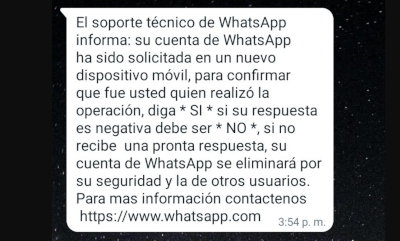
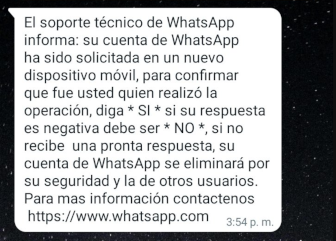
Ajuste nas imagens

diff --git a/sub_sites/ataques/clonagem_whatsapp/clonagem_do_whatsapp.html b/sub_sites/ataques/clonagem_whatsapp/clonagem_do_whatsapp.html
@@ -64,7 +64,7 @@
                 <li>
                     <strong>Golpe do Código de Verificação</strong>
 
-                    <div class="estrutura_da_imagem"><img src="./imagens_clonagem_whatsapp/codigo_de_verificação.jpg" alt="exemplo de mensagem pedindo o codigo" class="corpo"></div>
+                    <div class="estrutura_da_imagem"><img src="./imagens_clonagem_whatsapp/codigo_de_verificação.jpg" alt="exemplo de mensagem pedindo o codigo" id="codigo_verificaçao"></div>
                     
                     <p>
                         O criminoso finge ser um conhecido ou funcionário de uma empresa e pede que você envie um código
@@ -79,7 +79,7 @@
                 <li>
                     <strong>WhatsApp Web Não Autorizado</strong>
 
-                    <div class="estrutura_da_imagem"><img src="./imagens_clonagem_whatsapp/whats_web.jpg" alt="página do whats web" class="corpo"></div>
+                    <div class="estrutura_da_imagem"><img src="./imagens_clonagem_whatsapp/whats_web.jpg" alt="página do whats web" id="web"></div>
                     
                     <p>
                         Se alguém tiver acesso ao seu celular por alguns segundos, pode conectar sua conta ao <strong>WhatsApp Web</strong> e monitorar suas mensagens.
@@ -94,7 +94,7 @@
                 <li>
                     <strong>Aplicativos Espiões</strong>
 
-                    <div class="estrutura_da_imagem"><img src="./imagens_clonagem_whatsapp/app_espiao.jpg" alt="imagem ilustrativa de um espião" class="corpo"></div>
+                    <div class="estrutura_da_imagem"><img src="./imagens_clonagem_whatsapp/app_espiao.jpg" alt="imagem ilustrativa de um espião" id="espiao"></div>
                     
                     <p>Criminosos podem instalar apps espiões no seu celular para roubar suas mensagens e dados.</p>
                     <ul class="alerta" type="none">
@@ -106,7 +106,7 @@
                 <li>
                     <strong>Engenharia Social e Falsos Suportes</strong>
                     
-                    <div class="estrutura_da_imagem"><img src="./imagens_clonagem_whatsapp/suporte_falso.png" alt="exemplo de mensagem falsa do whatsaap" class="corpo"></div>
+                    <div class="estrutura_da_imagem"><img src="./imagens_clonagem_whatsapp/suporte_falso.png" alt="exemplo de mensagem falsa do whatsaap" id="engenharia"></div>
                     
                     <p>
                         Os golpistas se passam por suporte técnico do <strong>WhatsApp</strong> ou empresas conhecidas e pedem dados pessoais para “resolver um problema”.

diff --git a/estilos/midia.css b/estilos/midia.css
@@ -7,14 +7,13 @@
     margin: 10px auto;
 }
 
-.corpo {
-    height: 250px;
+#codigo_verificaçao, #web, #espiao, #engenharia {
     display: block;
     margin: 10px auto;
 }
 
 .estrutura_da_imagem {
-    width: 94%;
+    width: 95%;
 }
 
 iframe {
@@ -33,12 +32,20 @@ iframe {
 }
 
 @media (max-width: 700px) {
-    .corpo {
-        width: 14em;
+    #codigo_verificaçao {
+        width: 11em;
     }
 
-    .estrutura_da_imagem {
-        width: 85%;
+    #web {
+        width: 17em;
+    }
+
+    #espiao {
+        width: 17em;
+    }
+
+    #engenharia {
+        width: 17em;
     }
 
     iframe {

diff --git a/estilos/fontes.css b/estilos/fontes.css
@@ -155,7 +155,7 @@ main > article > ul  ul  {
 }
 
 main ul, ol {
-    margin-left: 60px;
+    margin-left: 50px;
 }
 
 footer {
